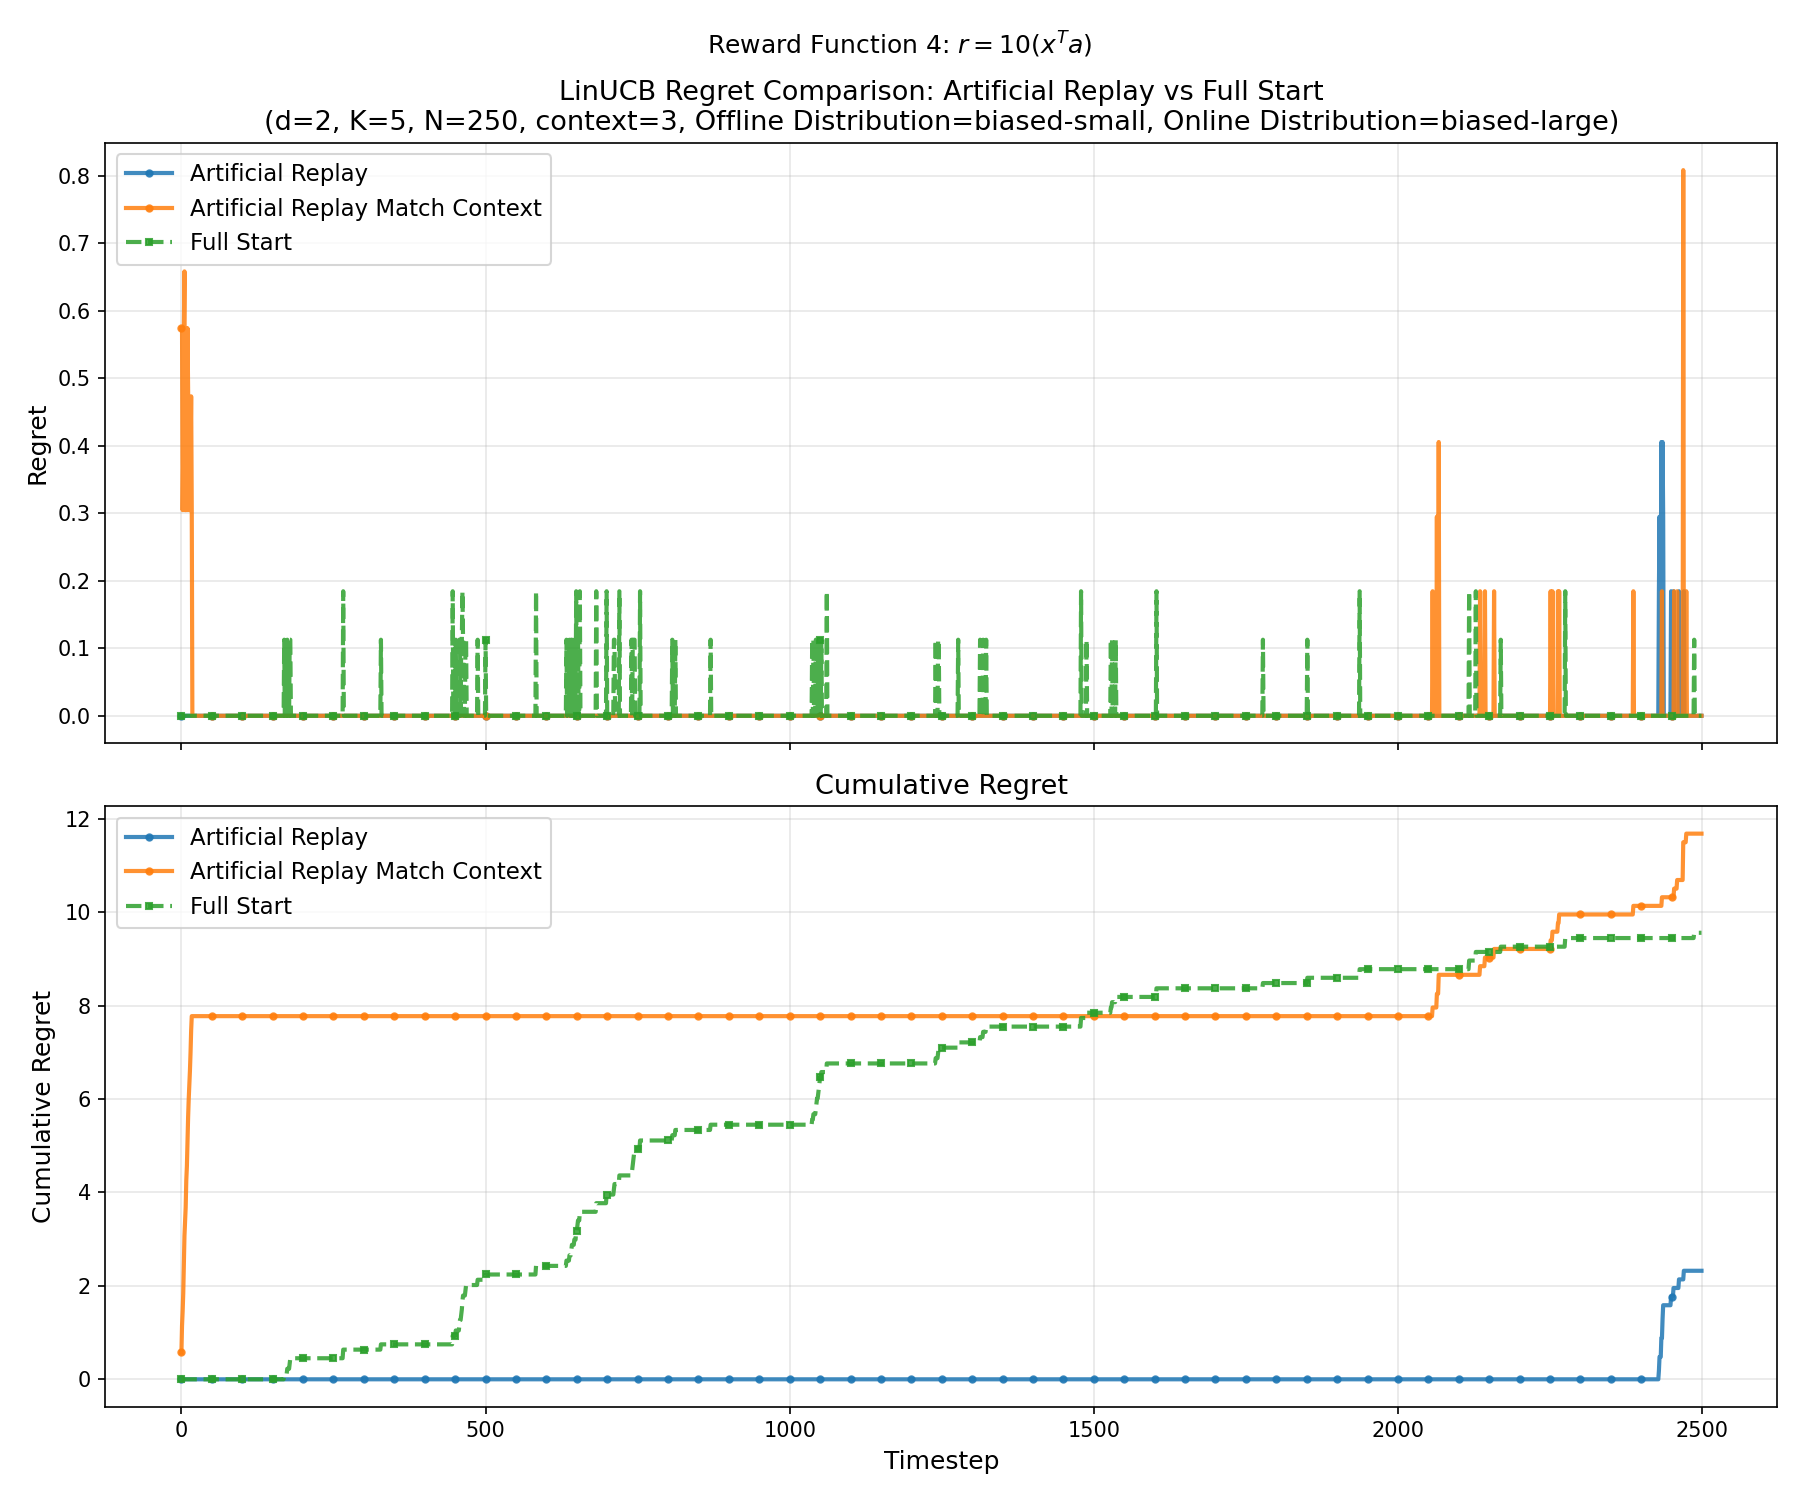
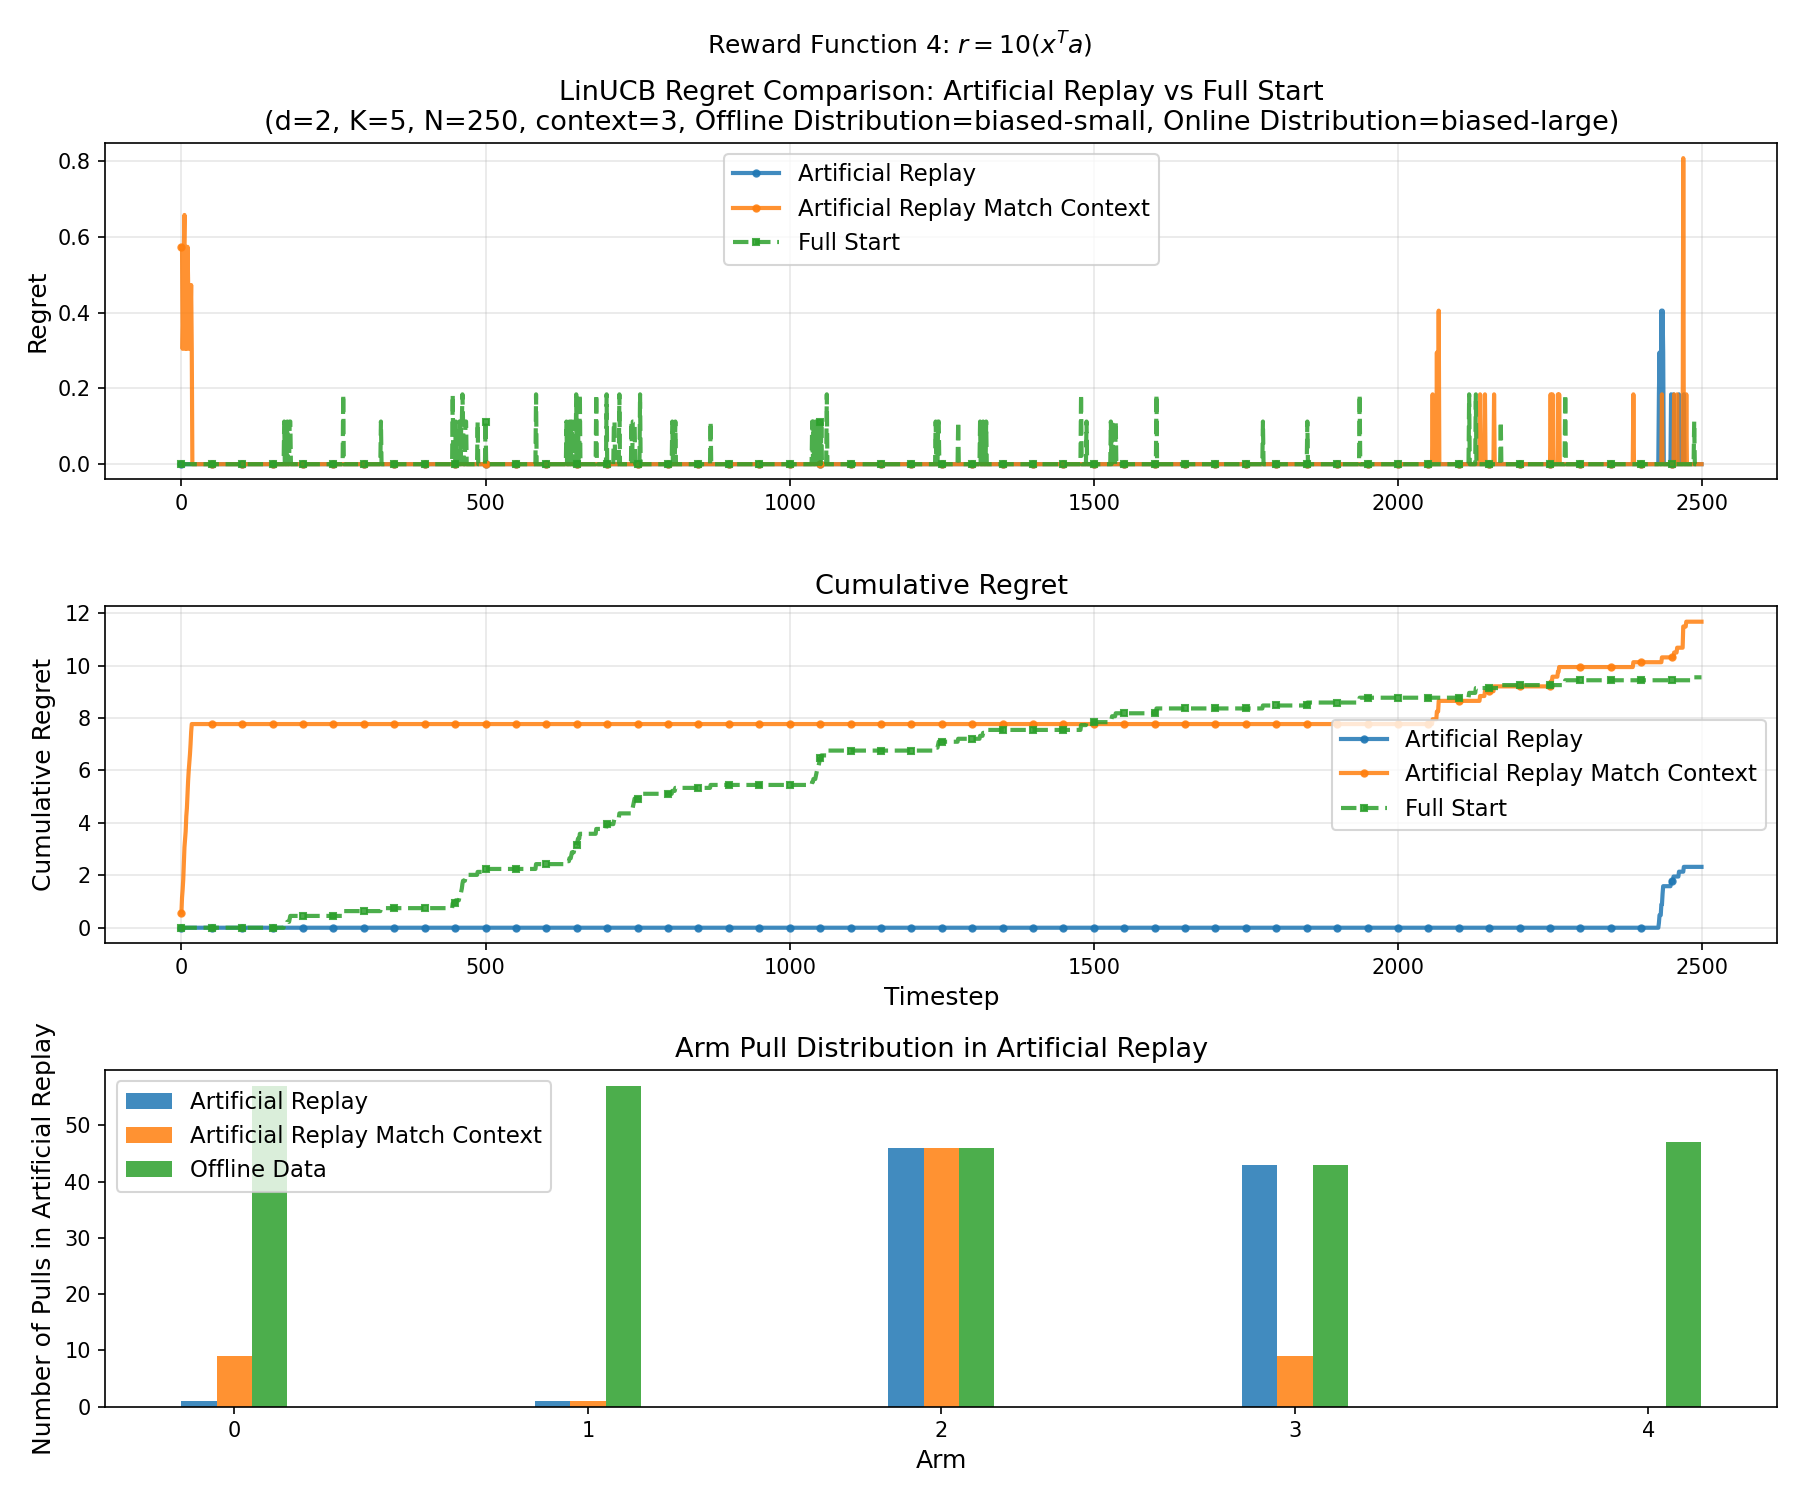
updated visualization to track utilization of historical data

diff --git a/main.py b/main.py
@@ -273,27 +273,27 @@ if __name__ == "__main__":
             )
             plt.close(fig)
 
-        regret_artificial_replay = linucb(
+        regret_artificial_replay, artificial_pulls = linucb(
             bandit_with_data, alpha, trials, history="artificial replay"
         )
         cum_regret_artificial = np.cumsum(regret_artificial_replay)
 
         bandit_with_data.reset_history()  # Clear history
 
-        regret_artificial_replay_match_context = linucb_matching_context(
+        regret_artificial_replay_match_context, artificial_pulls_match_context = linucb_matching_context(
             bandit_with_data, alpha, trials
         )
         cum_regret_artificial_match_context = np.cumsum(regret_artificial_replay_match_context)
 
         bandit_with_data.reset_history()  # Clear history
 
-        regret_full_start = linucb(
+        regret_full_start, _ = linucb(
             bandit_with_data, alpha, trials, history="full start"
         )
         cum_regret_full_start = np.cumsum(regret_full_start)
 
         # plot results
-        fig, axes = plt.subplots(2, 1, figsize=(12, 10), sharex=True)
+        fig, axes = plt.subplots(3, 1, figsize=(12, 10))
         fig.suptitle(
             f"Reward Function {rew_fn_id}: {reward_fn_titles[rew_fn_id]}",
             fontsize=12,
@@ -373,6 +373,32 @@ if __name__ == "__main__":
         axes[1].set_title("Cumulative Regret", fontsize=13)
         axes[1].legend(fontsize=11)
         axes[1].grid(True, alpha=0.3)
+
+        axes[2].bar(
+            np.arange(K) - 0.1,
+            artificial_pulls,
+            width=0.1,
+            alpha=0.85,
+            label="Artificial Replay",
+        )
+        axes[2].bar(
+            np.arange(K),
+            artificial_pulls_match_context,
+            width=0.1,
+            alpha=0.85,
+            label="Artificial Replay Match Context",
+        )
+        axes[2].bar(
+            np.arange(K) + 0.1,
+            np.bincount(arms, minlength=K),
+            width=0.1,
+            alpha=0.85,
+            label="Offline Data",
+        )
+        axes[2].set_xlabel("Arm", fontsize=12)
+        axes[2].set_ylabel("Number of Pulls in Artificial Replay", fontsize=12)
+        axes[2].legend(fontsize=11)
+        axes[2].set_title("Arm Pull Distribution in Artificial Replay", fontsize=13)
 
         plt.tight_layout()
         output_path = (

diff --git a/linucb.py b/linucb.py
@@ -115,7 +115,7 @@ def linucb(bandit, alpha, trials, history = None):
             b[idx] += r * x
             regret[t] = bandit.compute_regret(idx, context=x)
     
-    return regret
+    return regret, artificial_pulls if history == "artificial replay" else None
 
 def linucb_matching_context(bandit, alpha, trials):
     """
@@ -152,6 +152,7 @@ def linucb_matching_context(bandit, alpha, trials):
     rewards_data = np.array(rewards_data)
 
     t = 0
+    artificial_pulls = np.zeros(K, dtype=int)
     x = bandit.sample_context(bandit.online_distribution)
 
     while t < trials:
@@ -165,6 +166,7 @@ def linucb_matching_context(bandit, alpha, trials):
             A[idx] += np.outer(x, x)
             b[idx] += r * x
             df = df.drop(matches.index[0])  # Remove the used data point
+            artificial_pulls[idx] += 1
             continue
         else:
             _, r = bandit.pull_arm(idx, x)
@@ -173,7 +175,5 @@ def linucb_matching_context(bandit, alpha, trials):
             regret[t] = bandit.compute_regret(idx, context=x)
             t += 1
             x = bandit.sample_context(bandit.online_distribution)
-    
-    # print(df)
 
-    return regret
+    return regret, artificial_pulls
